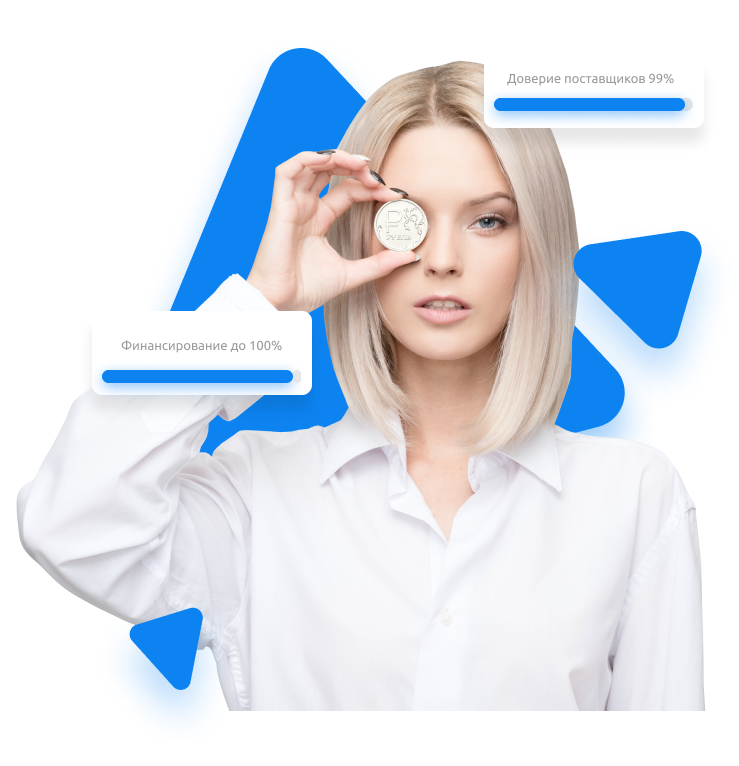
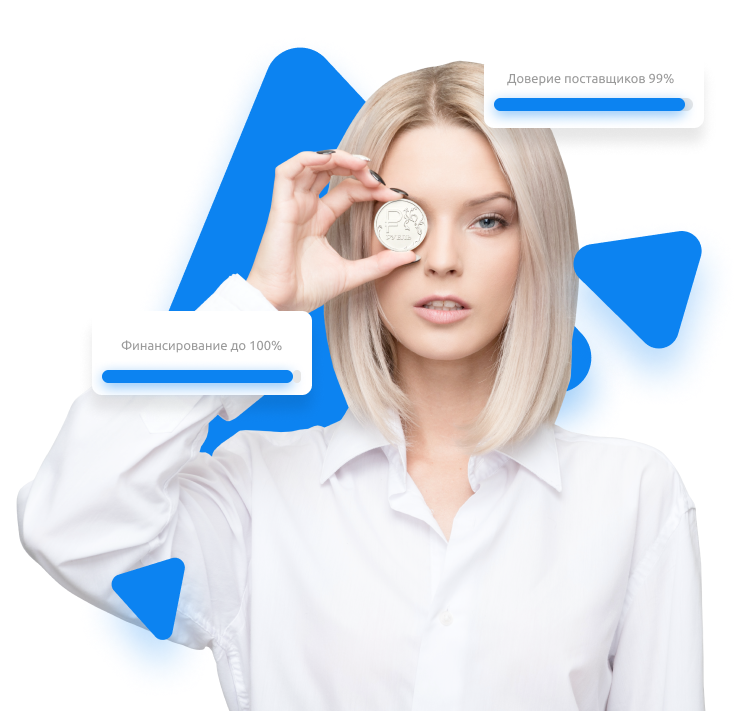
feat(public): work in progress

diff --git a/src/app/public/pages/home/home.component.html b/src/app/public/pages/home/home.component.html
@@ -15,26 +15,34 @@
 
       <div class="information">
         <div class="card">
-          <div class="icon"></div>
+          <div class="icon">
+            <img src="../../../../assets/icons/icon_success.png" alt="">
+          </div>
           <div class="text">
             Страховка вероятности дефолта покупателя
           </div>
         </div>
         <div class="card">
-          <div class="icon"></div>
+          <div class="icon">
+            <img src="../../../../assets/icons/icon_success.png" alt="">
+          </div>
           <div class="text">
             Увеличение объёма
             продаж
           </div>
         </div>
         <div class="card">
-          <div class="icon"></div>
+          <div class="icon">
+            <img src="../../../../assets/icons/icon_success.png" alt="">
+          </div>
           <div class="text">
             Добиться более выгодных условий от своих поставщиков
           </div>
         </div>
         <div class="card">
-          <div class="icon"></div>
+          <div class="icon">
+            <img src="../../../../assets/icons/icon_success.png" alt="">
+          </div>
           <div class="text">
             Миновать кассовые
             разрывы
@@ -45,20 +53,45 @@
   </div>
 </section>
 <section class="advantages">
-
+  <div class="mib-container">
+    <h2>Преимущества факторинга</h2>
+    <div class="advantages_cards">
+      <mib-card-info [icon]="'../../../../assets/icons/card-icons/money.png'"
+        [text]="'Факторинг помогает разморозить деньги, зависшие в дебиторке, и сразу направить их в оборот'">
+      </mib-card-info>
+      <mib-card-info [icon]="'../../../../assets/icons/card-icons/vector.png'"
+        [text]="'Покрытие кассовых разрывов за счет поступления финансирования на следующий день после отгрузки товара'">
+      </mib-card-info>
+      <mib-card-info [icon]="'../../../../assets/icons/card-icons/settings.png'"
+        [text]="'Развитие бизнеса за счет ускорения оборачиваемости капитала'"></mib-card-info>
+      <mib-card-info [icon]="'../../../../assets/icons/card-icons/safe.png'"
+        [text]="'Отсутствие риска неоплаты со стороны Дебитора (при факторинге без регресса)'"></mib-card-info>
+      <mib-card-info [icon]="'../../../../assets/icons/card-icons/normal.png'"
+        [text]="'Отсутствие залогового обеспечения'"></mib-card-info>
+      <mib-card-info [icon]="'../../../../assets/icons/card-icons/agile.png'"
+        [text]="'Гибкость и прозрачность схемы работы по факторингу'"></mib-card-info>
+      <mib-card-info [icon]="'../../../../assets/icons/card-icons/summ.png'"
+        [text]="'Сумма финансирования устанавливается в зависимости от запроса клиента'"></mib-card-info>
+    </div>
+  </div>
 </section>
 <section class="offer">
-
+  <div class="mib-container">
+    <h2>Мы предлагаем</h2>
+  </div>
 </section>
 <section class="how-work">
-
+  <div class="mib-container">
+    <h2>Как это работает?</h2>
+  </div>
 </section>
 <section class="partners">
-
+  <div class="mib-container">
+    <h2>Наши партнёры</h2>
+  </div>
 </section>
 <section class="news">
-
-</section>
-<section class="contacts">
-
+  <div class="mib-container">
+    <h2>Пресс-центр</h2>
+  </div>
 </section>

diff --git a/src/app/public/shared/ui-kit-test/ui-kit-test.component.html b/src/app/public/shared/ui-kit-test/ui-kit-test.component.html
@@ -58,12 +58,19 @@
     <mib-card-info [icon]="'../../../../assets/icons/card-icons/money.png'"
       [text]="'Факторинг помогает разморозить деньги, зависшие в дебиторке, и сразу направить их в оборот'">
     </mib-card-info>
-    <mib-card-info [icon]="'../../../../assets/icons/card-icons/vector.png'" [text]="''"></mib-card-info>
-    <mib-card-info [icon]="'../../../../assets/icons/card-icons/settings.png'" [text]="''"></mib-card-info>
-    <mib-card-info [icon]="'../../../../assets/icons/card-icons/safe.png'" [text]="''"></mib-card-info>
-    <mib-card-info [icon]="'../../../../assets/icons/card-icons/normal.png'" [text]="''"></mib-card-info>
-    <mib-card-info [icon]="'../../../../assets/icons/card-icons/agile.png'" [text]="''"></mib-card-info>
-    <mib-card-info [icon]="'../../../../assets/icons/card-icons/summ.png'" [text]="''"></mib-card-info>
+    <mib-card-info [icon]="'../../../../assets/icons/card-icons/vector.png'"
+      [text]="'Покрытие кассовых разрывов за счет поступления финансирования на следующий день после отгрузки товара'">
+    </mib-card-info>
+    <mib-card-info [icon]="'../../../../assets/icons/card-icons/settings.png'"
+      [text]="'Развитие бизнеса за счет ускорения оборачиваемости капитала'"></mib-card-info>
+    <mib-card-info [icon]="'../../../../assets/icons/card-icons/safe.png'"
+      [text]="'Отсутствие риска неоплаты со стороны Дебитора (при факторинге без регресса)'"></mib-card-info>
+    <mib-card-info [icon]="'../../../../assets/icons/card-icons/normal.png'"
+      [text]="'Отсутствие залогового обеспечения'"></mib-card-info>
+    <mib-card-info [icon]="'../../../../assets/icons/card-icons/agile.png'"
+      [text]="'Гибкость и прозрачность схемы работы по факторингу'"></mib-card-info>
+    <mib-card-info [icon]="'../../../../assets/icons/card-icons/summ.png'"
+      [text]="'Сумма финансирования устанавливается в зависимости от запроса клиента'"></mib-card-info>
   </div>
 
   <hr>

diff --git a/src/app/public/pages/home/home.component.scss b/src/app/public/pages/home/home.component.scss
@@ -8,7 +8,7 @@
   max-width: 1400px;
   background-image: url('../../../../assets/public/image_promo.png');
   background-repeat: no-repeat;
-  background-position: right;
+  background-position: right bottom;
 
   &_inner {
     height: 100%;
@@ -41,7 +41,6 @@
           .icon {
             width: 25px;
             height: 25px;
-            background-image: url('../../../../assets/icons/icon_success.png');
             margin-right: 20px;
           }
 
@@ -62,5 +61,39 @@
 .advantages {
   background:#F7F7F7;
   border-radius: 20px;
-  height: 600px;
+
+  &_cards {
+    margin-top: 3.625rem;
+    display: flex;
+    flex-direction: row;
+    flex-wrap: wrap;
+    gap: 30px;
+
+    justify-content: center;
+  }
 }
+
+.offer {
+  background: white;
+  height: 500px;
+  border-radius: 20px;
+}
+
+.how-work {
+  background:#F7F7F7;
+  height: 500px;
+  border-radius: 20px;
+}
+
+.partners {
+  background:white;
+  height: 500px;
+  border-radius: 20px;
+}
+
+.news {
+  background:#F7F7F7;
+  height: 500px;
+  border-radius: 20px;
+}
+

diff --git a/src/app/public/public.module.ts b/src/app/public/public.module.ts
@@ -11,6 +11,7 @@ import { MibMenuComponent } from './shared/menu/mib-menu/mib-menu.component';
 import { MibCardInfoComponent } from './shared/cards/card-info/mib-card-info.component';
 import { TariffsComponent } from './pages/tariffs/tariffs.component';
 import { ClientsComponent } from './pages/clients/clients.component';
+import { MibFooterComponent } from './shared/mib-footer/mib-footer.component';
 
 const routes = [
   {
@@ -58,6 +59,7 @@ const routes = [
     // TODO: REMOVE IT AFTER TEST, ADD SHARED MODULE
     UIKitTestComponent,
     MibMenuComponent,
+    MibFooterComponent,
     MibButtonComponent,
     // CARDS
     MibCardInfoComponent,

diff --git a/src/app/public/pages/clients/clients.component.scss b/src/app/public/pages/clients/clients.component.scss
@@ -1,14 +1,31 @@
 .promo {
-  height: 710px;
+  height: 500px;
   background: #FFFFFF;
   box-shadow: 0px 15px 25px rgba(12, 131, 241, 0.03);
   border-radius: 0px 0px 20px 20px;
 
+  margin: 0 auto;
+  max-width: 1400px;
+  background-image: url('../../../../assets/public/image_tarif_promo.png');
+  background-repeat: no-repeat;
+  background-position: right bottom;
+
   &_inner {
+    height: 100%;
     display: flex;
+    max-width: 1100px;
 
     &_content {
       width: 600px;
+
+      .intro {
+        h1 {
+          margin-bottom: 2.25rem;
+        }
+        .description {
+          margin-bottom: 3rem;
+        }
+      }
     }
   }
 }

diff --git a/src/app/public/pages/contacts/contacts.component.scss b/src/app/public/pages/contacts/contacts.component.scss
@@ -1,14 +1,31 @@
 .promo {
-  height: 710px;
+  height: 500px;
   background: #FFFFFF;
   box-shadow: 0px 15px 25px rgba(12, 131, 241, 0.03);
   border-radius: 0px 0px 20px 20px;
 
+  margin: 0 auto;
+  max-width: 1400px;
+  background-image: url('../../../../assets/public/image_tarif_promo.png');
+  background-repeat: no-repeat;
+  background-position: right bottom;
+
   &_inner {
+    height: 100%;
     display: flex;
+    max-width: 1100px;
 
     &_content {
       width: 600px;
+
+      .intro {
+        h1 {
+          margin-bottom: 2.25rem;
+        }
+        .description {
+          margin-bottom: 3rem;
+        }
+      }
     }
   }
 }

diff --git a/src/app/public/pages/tariffs/tariffs.component.scss b/src/app/public/pages/tariffs/tariffs.component.scss
@@ -1,14 +1,31 @@
 .promo {
-  height: 710px;
+  height: 500px;
   background: #FFFFFF;
   box-shadow: 0px 15px 25px rgba(12, 131, 241, 0.03);
   border-radius: 0px 0px 20px 20px;
 
+  margin: 0 auto;
+  max-width: 1400px;
+  background-image: url('../../../../assets/public/image_tarif_promo.png');
+  background-repeat: no-repeat;
+  background-position: right bottom;
+
   &_inner {
+    height: 100%;
     display: flex;
+    max-width: 1100px;
 
     &_content {
       width: 600px;
+
+      .intro {
+        h1 {
+          margin-bottom: 2.25rem;
+        }
+        .description {
+          margin-bottom: 3rem;
+        }
+      }
     }
   }
 }

diff --git a/src/app/public/pages/tariffs/tariffs.component.html b/src/app/public/pages/tariffs/tariffs.component.html
@@ -1,7 +1,12 @@
 <section class="promo fluid">
-  <div class="content promo_inner">
+  <div class="mib-container content promo_inner">
     <div class="promo_inner_content">
-      <h1>Тарифы</h1>
+      <div class="intro">
+        <h1>Тарифы</h1>
+        <p class="description">
+          Выбери сам с чего начнётся наше сотрудничество
+        </p>
+      </div>
     </div>
   </div>
 </section>

diff --git a/src/app/public/shared/cards/card-info/mib-card-info.component.scss b/src/app/public/shared/cards/card-info/mib-card-info.component.scss
@@ -4,9 +4,11 @@
   border-radius: 10px;
   background-color: white;
 
+  margin-bottom: 30px;
+
   .icon {
     position: relative;
-    top: 0px;
+    top: -40px;
     left: 0px;
 
     display: flex;
@@ -15,6 +17,9 @@
   }
 
   .inner {
+    position: relative;
+    top: -40px;
+
     font-style: normal;
     font-weight: normal;
     font-size: 14px;

diff --git a/src/app/public/shared/mib-footer/mib-footer.component.ts b/src/app/public/shared/mib-footer/mib-footer.component.ts
@@ -1,0 +1,13 @@
+import { Component, OnInit } from '@angular/core';
+
+@Component({
+  selector: 'mib-footer',
+  styleUrls: ['./mib-footer.component.scss'],
+  templateUrl: 'mib-footer.component.html'
+})
+
+export class MibFooterComponent implements OnInit {
+  constructor() { }
+
+  ngOnInit() { }
+}

diff --git a/src/app/public/pages/clients/clients.component.html b/src/app/public/pages/clients/clients.component.html
@@ -1,7 +1,7 @@
 <section class="promo fluid">
   <div class="content promo_inner">
     <div class="promo_inner_content">
-      <h1>Клиентам</h1>
+      <h1>Факторинг — это просто!</h1>
     </div>
   </div>
 </section>

diff --git a/src/app/shared/layouts/public-layout/public-layout.component.scss b/src/app/shared/layouts/public-layout/public-layout.component.scss
@@ -18,6 +18,12 @@
     @media (min-width:1300px) {
       max-width: 1100px;
       margin: 0 auto;
+
+      h2 {
+        margin: 0;
+        padding-top: 3.25rem;
+        text-align: center;
+      }
     }
   }
 
